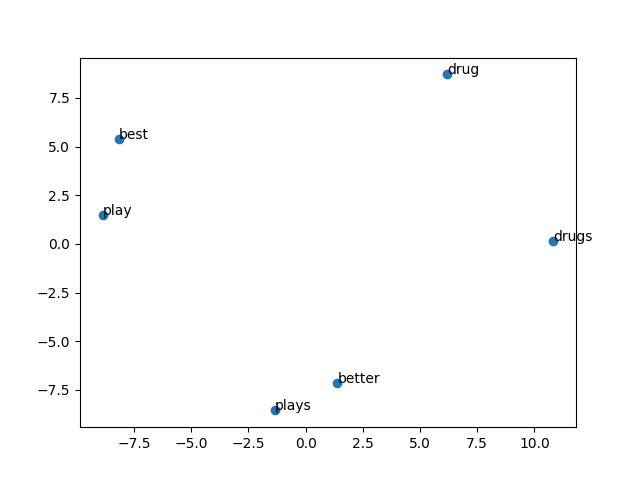
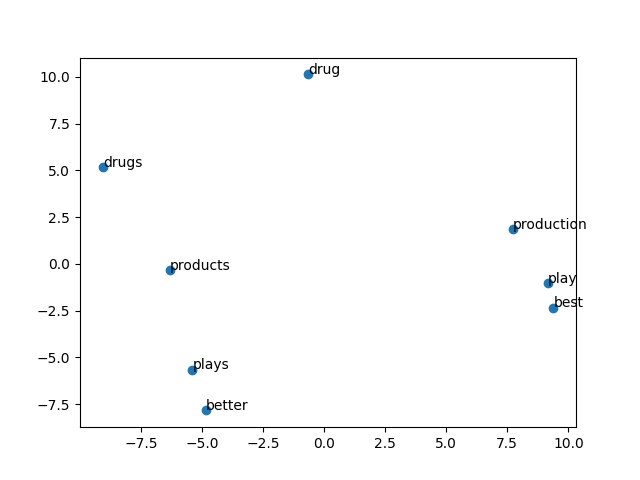
README modified, requirements uploaded

diff --git a/topic_modeling.py b/topic_modeling.py
@@ -95,9 +95,10 @@ def get_LSA_embedding(words_to_show_on_2D):
 def get_BERT_embedding():
     context_1 = 'drug and drugs'
     context_2 = 'best and better'
-    context_3 = 'play better plays'
+    context_3 = 'play and plays'
+    context_4 = 'produce and products'
 
-    context = [context_1, context_2, context_3]
+    context = [context_1, context_2, context_3, context_4]
 
 
     from transformers import BertTokenizer, BertModel
@@ -136,15 +137,13 @@ def pca(matrix, dim=2):
 
 
 
-def show_on_2D():
-    pass
-
 
 def main():
 
     words_to_show_on_2D = ['drug', 'drugs', 
                            'best', 'better', 
-                           'play', 'plays']
+                           'play', 'plays',
+                           'production', 'products']
 
     embedding_LSA = get_LSA_embedding(words_to_show_on_2D)
     embedding_BERT = get_BERT_embedding()

diff --git a/README.md b/README.md
@@ -1,1 +1,14 @@
 # SI231-Final-Project
+
+## To run the code
+
+```
+pip install -r requirements.txt
+```
+
+```
+python topic_modeling.py
+```
+
+## Further question please contact
+chenzhuo@shanghaitech.edu.cn
